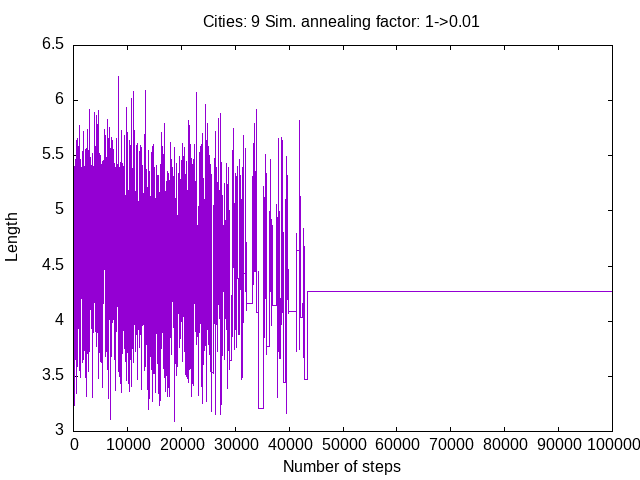
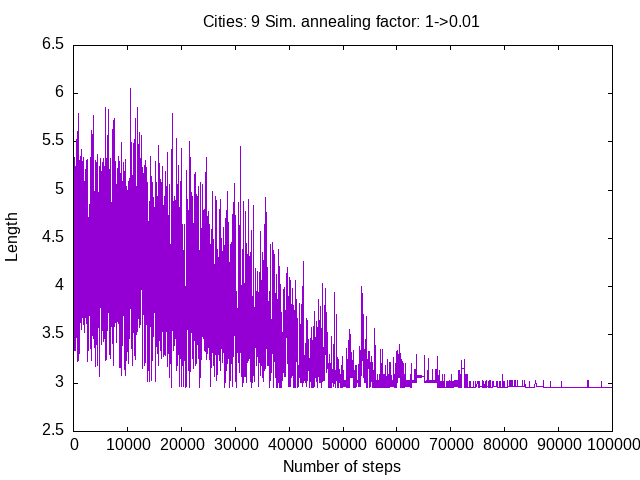
Fix a mistake in the simulated annealing

diff --git a/_posts/2021-07-12-PWC121.md b/_posts/2021-07-12-PWC121.md
@@ -313,7 +313,7 @@ that of the true optimum.
     my $L=distance($route);
     while($L0>$L_stop){
         my $new_route=step($route);
-        my $new_L=distance($route);
+        my $new_L=distance($new_route);
         my $dL=$new_L-$L;
         if($dL<=0 || random(1)<exp(-$dL/$L0)){
     	$route=$new_route; # accept
@@ -359,8 +359,8 @@ Results:
 
     Steps: 100000
     Cities: 9
-    Route: [0 2 8 3 5 4 7 1 6 0]
-    Length: 4.26598706547594
+    Route: [0 2 3 7 6 8 5 1 4 0]
+    Length: 2.96091044611578
 
 We can check the result above by using the exhaustive search,
 
@@ -385,32 +385,20 @@ Results:
     Best tour: [0 2 3 7 6 8 5 1 4 0]
     Shortest length: 2.96091045
 
-So it seems that my simplistic simulated annealing is not too
-good, as it produced a trip with a length 4.26, quite larger than
-the optimum 2.96. To understand the problem I plot the result.
+So it seems that the simple simulated annealing is up to the job. To
+understand how the system converges I plot the result vs. the number
+of steps using `gnuplot`..
+
+    reset
+    set xlabel 'Number of steps'
+    set ylabel 'Length'
+    set title 'Cities: 9 Sim. annealing factor: 1->0.01'
+    unset key
+    plot 'rem.txt' u (10*$0):1 every 10 w l
+
 ![img](../../../../assets/image/2021-07-12-PWC121/Nine.png)
 
-Part of the difficulty is that for this kind of discrete
-problems one can not shorten the *steps* as the *temperature* goes
-down, i.e., the change of length
-when two cities are interchanged is of the same order of
-magnitude at the beginning and at the end of the search. In
-the usual Monte Carlo simulations for continuous systems one can take large bold
-steps at high temperature and short steps at low
-temperatures. Thus, in my search there are large fluctuations
-at the start, when the temperature is large, but then the
-system is trapped at low temperature in a state with a length
-which is not the worst, but far from the best. Curiously,
-some of the intermediate states
-had a length which was much closer to the optimal one, but
-then the simulation jumped out of them. With enough time and patience
-one could tune the parameters of the simulation to get a
-better convergence to the true minimum. In particular,
-realistic simulatons would have to be much larger, with a much
-slower decrease in *temperature* to avoid becoming trapped in
-the wrong *state*. It might help to remember the best solution
-generated during the simulation.
-Anyway, I just go ahead and attempt a larger trip.
+Now I go ahead and attempt a larger trip, with 20 cities.
 
     ./ch-2a.pl 20 100000 1 .01 rem1.txt
 
@@ -427,35 +415,31 @@ Results:
 
     Steps: 100000
     Cities: 20
-    Route: [0 10 1 9 18 11 3 17 8 4 16 12 7 15 2 19 5 13 6 14 0]
-    Length: 9.65196942326497
+    Route: [0 13 9 5 17 12 8 4 7 6 2 14 18 3 10 11 15 16 1 19 0]
+    Length: 4.6194812068939
 
 ![img](../../../../assets/image/2021-07-12-PWC121/Twenty.png)
 
-So the simulation got trapped in a trip whose length is about
-half the number of cities, while it reached a smaller one of
-length 7 and then jumped out of it.
+So the simulation seems to be well converged.
 
 
 ## Realistic distances
 
-Another problem with the programs above with regards to the
+A problem with the programs above with regards to the
 traveling salesman problem is that the random distances are
-not realistic at all. I would expect any set of distances
+unrealistic. I would expect any set of distances
 computed with any metric, say, the real geometric distance
-given by the Euclidean metric or the distance along the
-streets of a cuadriculated city given by the L<sub>1</sub> norm, to obey
+given by the Euclidean *L<sub>2</sub>* metric or the distance along the
+streets of a cuadriculated city given by the *L<sub>1</sub>* norm, to obey
 the triangle inequality *d<sub>AB</sub>+d<sub>BC</sub> ≥ d<sub>AC</sub>*. The random
 numbers I've been using above violate this inequality in
 general. Two cities that are close to a third ought to be
 close among themselves. That is not the case for randomly
-assigned distances. Thus, all steps above have a similar cost, whereas in a
-real problem, exchanging some neighboring cities would have a small cost
-and exchanging farway cities would have a large cost. Thus, I
+assigned distances.  Thus, I
 rewrite the program above but using randomly
 positioned cities and calculating their acutal geometric
-distance. After initializing the distance matrix the rest of
-the program is identical.
+distance, using some PDL shorcuts. After initializing the distance
+matrix the rest of the program is identical.
 
     # Perl weekly challenge 121
     # Task 2: The travelling salesman. Simulated Annealing. Obeying triangle inequality.
@@ -479,7 +463,7 @@ the program is identical.
     my $L=distance($route);
     while($L0>$L_stop){
         my $new_route=step($route);
-        my $new_L=distance($route);
+        my $new_L=distance($new_route);
         my $dL=$new_L-$L;
         if($dL<=0 || random(1)<exp(-$dL/$L0)){
     	$route=$new_route; # accept
@@ -506,7 +490,7 @@ the program is identical.
 
 Example:
 
-    ./ch-2b.pl 9 100000 1 .02  rem2.txt
+    ./ch-2b.pl 9 100000 1 .001  rem2.txt
 
 Results:
 
@@ -525,24 +509,40 @@ Results:
 
     Steps: 100000
     Cities: 9
-    Route: [0 1 3 2 5 7 6 8 4 0]
-    Length: 2.66107124662034
+    Route: [0 1 7 2 4 8 3 6 5 0]
+    Length: 2.26522461437601
 
 I compare it to the optimum
 
     ./ch-2.pl [[0,0.14170127,0.4080575,0.64582278,0.70309247,0.48238837,0.74517376,0.22507754,0.69632666],[0.14170127,0,0.48832752,0.77891353,0.78757497,0.62393047,0.881522,0.31230217,0.80456918],[0.4080575,0.48832752,0,0.4325695,0.29938057,0.45156833,0.54801779,0.18323136,0.34027176],[0.64582278,0.77891353,0.4325695,0,0.41790176,0.24660718,0.11579293,0.50520091,0.25732945],[0.70309247,0.78757497,0.29938057,0.41790176,0,0.579854,0.50506582,0.48065643,0.17175052],[0.48238837,0.62393047,0.45156833,0.24660718,0.579854,0,0.30134798,0.42621535,0.45662134],[0.74517376,0.881522,0.54801779,0.11579293,0.50506582,0.30134798,0,0.61744569,0.33502502],[0.22507754,0.31230217,0.18323136,0.50520091,0.48065643,0.42621535,0.61744569,0,0.49352759],[0.69632666,0.80456918,0.34027176,0.25732945,0.17175052,0.45662134,0.33502502,0.49352759,0]]
 
-So this time the result was much closer to the actual
-optimum. I plot below the evolution of the simulation.
+Results:
+
+
+    Input
+    [
+     [         0 0.14170127  0.4080575 0.64582278 0.70309247 0.48238837 0.74517376 0.22507754 0.69632666]
+     [0.14170127          0 0.48832752 0.77891353 0.78757497 0.62393047   0.881522 0.31230217 0.80456918]
+     [ 0.4080575 0.48832752          0  0.4325695 0.29938057 0.45156833 0.54801779 0.18323136 0.34027176]
+     [0.64582278 0.77891353  0.4325695          0 0.41790176 0.24660718 0.11579293 0.50520091 0.25732945]
+     [0.70309247 0.78757497 0.29938057 0.41790176          0   0.579854 0.50506582 0.48065643 0.17175052]
+     [0.48238837 0.62393047 0.45156833 0.24660718   0.579854          0 0.30134798 0.42621535 0.45662134]
+     [0.74517376   0.881522 0.54801779 0.11579293 0.50506582 0.30134798          0 0.61744569 0.33502502]
+     [0.22507754 0.31230217 0.18323136 0.50520091 0.48065643 0.42621535 0.61744569          0 0.49352759]
+     [0.69632666 0.80456918 0.34027176 0.25732945 0.17175052 0.45662134 0.33502502 0.49352759          0]
+    ]
+
+    Best tour: [0 1 7 2 4 8 3 6 5 0]
+    Shortest length: 2.26522462
+
+Notice that I got the same solution, though visiting the cities in
+the opposite order. I plot below the evolution of the simulation.
 
 ![img](../../../../assets/image/2021-07-12-PWC121/Nine_E.png)
 
-So in this case the system got trapped, but in a *trip* with
-a relatively short length.
-
 I try now the case of 20 cities.
 
-    ./ch-2b.pl 20 100000 1 .04  rem3.txt
+    ./ch-2b.pl 20 100000 1 .005  rem3.txt
 
 Results:
 
@@ -560,17 +560,18 @@ Results:
      [      .          .           .            .          .            ,      ...]
     ]
 
-    Steps: 100000
-    Cities: 20
-    Route: [0 18 14 4 15 16 1 19 5 17 2 13 7 10 12 8 6 3 11 9 0]
-    Length: 8.68250815006582
+     Steps: 100000
+     Cities: 20
+     Route: [0 18 14 19 10 5 11 3 6 9 16 13 15 8 4 2 12 7 17 1 0]
+     Length: 3.98729459557798
 
-![img](../../../../assets/image/2021-07-12-PWC121/Twenty_E.png)
+And I plot the convergence.
+ ![img](../../../../assets/image/2021-07-12-PWC121/Twenty_E.png)
 
 In summary, with the simulated annealing algorithm developed
 above one can search in a few seconds for
-solutions to the traveling salesman problem which would
-nevertheless would be suboptimal. However, the true optimum
-obtained from an exhaustive search would be prohibitive even
-for modestly sized problems. There are other search
-strategies that may be better for this particular problem.
+good solutions to the traveling salesman which, though may not be
+truly optimal, they may be good enough for many
+applications. However, the true optimum obtained from an exhaustive
+search would be prohibitively expensive even
+for modestly sized problems.
